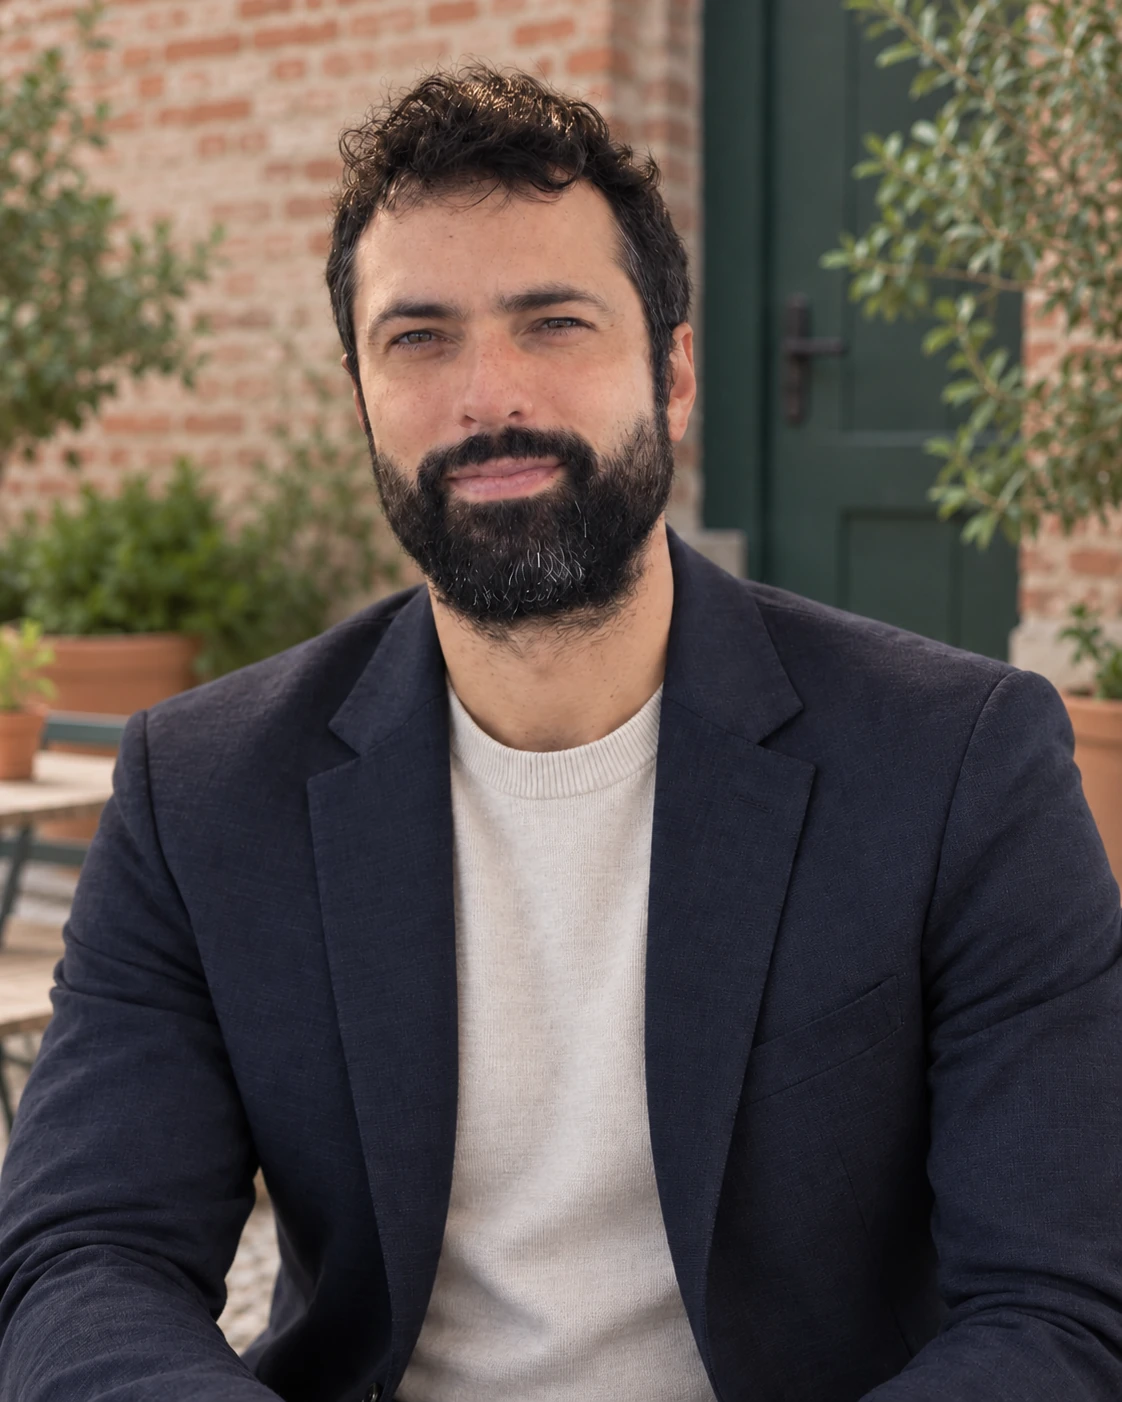
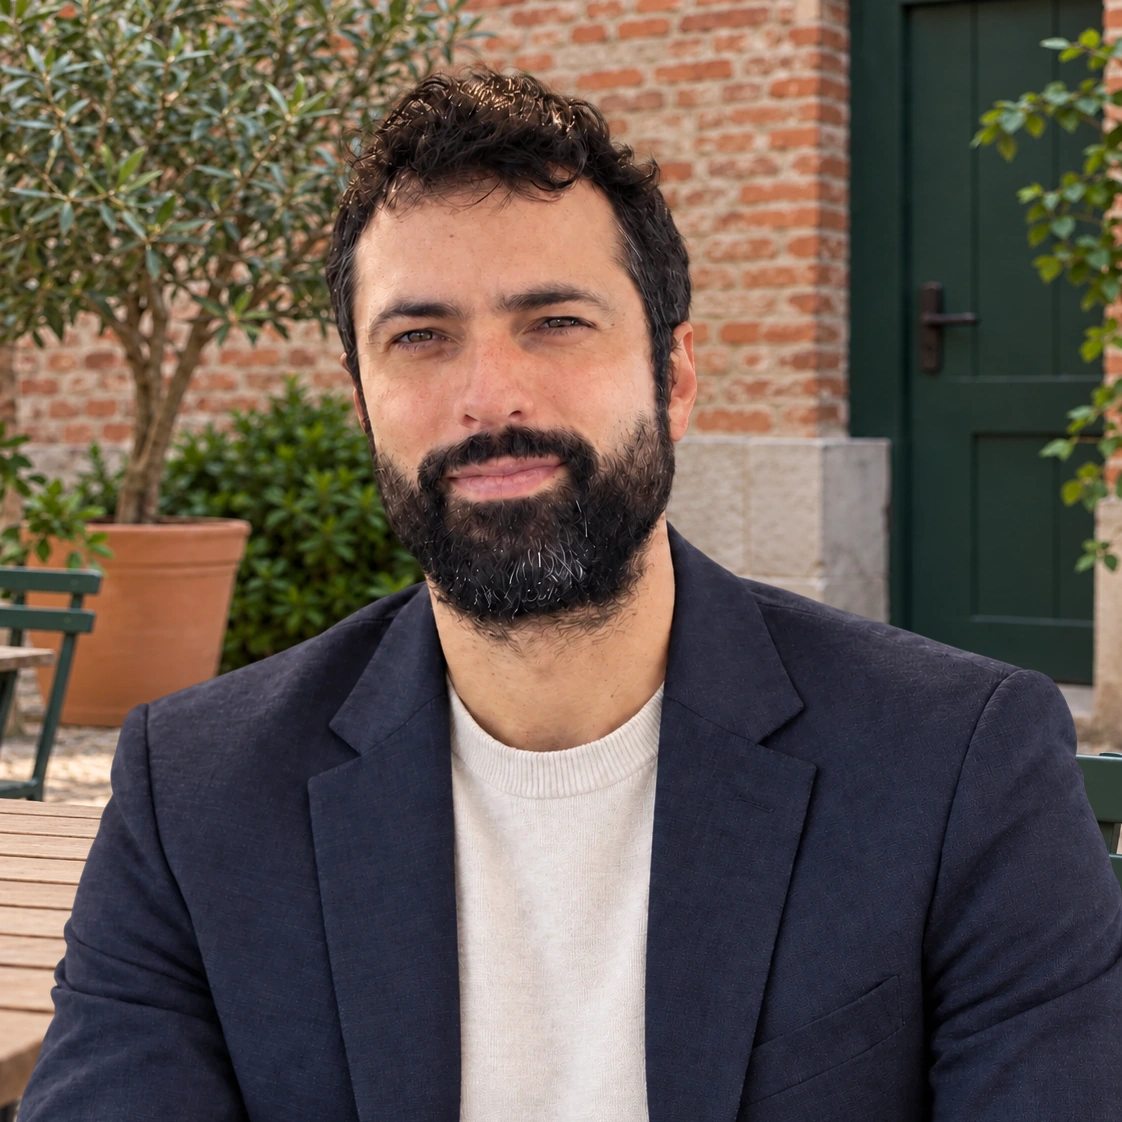
Bake courtyard backgrounds into team portraits

diff --git a/index.html b/index.html
@@ -37,7 +37,7 @@
       as="image"
       type="image/svg+xml"
     />
-    <link rel="stylesheet" href="/styles.css?v=20261027-team-names" />
+    <link rel="stylesheet" href="/styles.css?v=20261102-retratos-integrados" />
     <link rel="stylesheet" href="/story.css?v=20261027-captures" />
     <script defer src="/assets/vendor/gsap.min.js?v=20260914-feedback"></script>
     <script
@@ -965,8 +965,8 @@
               </button>
             </header>
             <div class="person-content" id="laura-pereda-details">
-              <figure class="person-photo person-photo--patio">
-                <img src="/assets/team/laura-pereda-cutout.webp?v=20261022-patio-comun" width="1122" height="1402" alt="Laura Pereda" loading="lazy" decoding="async" />
+              <figure class="person-photo">
+                <img src="/assets/team/laura-pereda-patio.webp?v=20261102-integrado" width="1122" height="1122" alt="Laura Pereda" loading="lazy" decoding="async" />
               </figure>
               <div class="person-body">
                 <p class="person-lead" data-es="Tu primer contacto con el equipo." data-en="Your first contact with the team.">Tu primer contacto con el equipo.</p>
@@ -984,8 +984,8 @@
               </button>
             </header>
             <div class="person-content" id="juan-poblete-details">
-              <figure class="person-photo person-photo--patio">
-                <img src="/assets/team/juan-cutout.webp?v=20261022-patio-comun" width="1122" height="1402" alt="Juan Poblete" loading="lazy" decoding="async" />
+              <figure class="person-photo">
+                <img src="/assets/team/juan-patio.webp?v=20261102-integrado" width="1122" height="1122" alt="Juan Poblete" loading="lazy" decoding="async" />
               </figure>
               <div class="person-body">
                 <p class="person-lead" data-es="Conecto negocio y tecnología." data-en="Connecting business and technology.">Conecto negocio y tecnología.</p>
@@ -1022,8 +1022,8 @@
               </button>
             </header>
             <div class="person-content" id="agustin-rosa-details">
-              <figure class="person-photo person-photo--patio">
-                <img src="/assets/team/agustin-rosa-cutout.webp?v=20261022-patio-comun" width="1122" height="1402" alt="Agustín Rosa" loading="lazy" decoding="async" />
+              <figure class="person-photo">
+                <img src="/assets/team/agustin-rosa-patio.webp?v=20261102-integrado" width="1122" height="1122" alt="Agustín Rosa" loading="lazy" decoding="async" />
               </figure>
               <div class="person-body">
                 <p class="person-lead" data-es="IA para tareas concretas." data-en="AI for practical tasks.">IA para tareas concretas.</p>

diff --git a/styles.css b/styles.css
@@ -2562,9 +2562,6 @@ h1 {
   border: 1px solid var(--line);
   margin: 0 auto;
 }
-.person-photo--patio {
-  background: url("/assets/team/patio-common.webp?v=20261022-patio-comun") 0 0 / 100% 100% no-repeat;
-}
 .person-photo img {
   width: 100%;
   height: auto;

diff --git a/docs/test-cases.md b/docs/test-cases.md
@@ -1,5 +1,25 @@
 # Landing narrative · 21 octubre 2026
 
+## Retratos con fondo integrado · 2 noviembre 2026
+
+Laura, Juan y Agustín usan ahora una imagen opaca por retrato (`*-patio.webp`).
+Se exporta la composición existente, conservando las personas y el encuadre circular;
+el fondo deja de cargarse como un recurso CSS independiente. Los recortes y el fondo
+original se conservan como fuentes. Los archivos finales son cuadrados de 1122 × 1122.
+
+- `TEAM-BG01`: las tres fichas usan imágenes completas; no hay dependencia del fondo CSS.
+- `TEAM-BG02`: navegador en ES/EN a 320, 390, 768 y 1440 px; imágenes cargadas,
+  opacas y sin solicitudes de recortes o fondo separado, incluso bloqueando esas rutas.
+- `TEAM-BG03`: comparación de las tres fotos antes/después a 390 y 1440 px para
+  conservar el encuadre; capturas inspeccionadas y diferencias de compresión registradas.
+- `TEAM-BG04`: el preparador de la preview conserva las imágenes y comprueba todos
+  los recursos CSS bajo el prefijo protegido, sin exigir el antiguo fondo independiente.
+
+Evidencia de ejecución en `artifacts/landing-team-backgrounds-20261102/` del workspace,
+fuera de la raíz pública. La validación se realiza en Chrome con tamaños simulados;
+no sustituye una prueba en dispositivos físicos. La publicación sigue el workflow
+existente de `main`; este repositorio no tiene entornos DEV/PRELIVE separados.
+
 ## Publicación principal · 27 octubre 2026
 
 Run ID local: `production-20261027`. Fuente pública idéntica al snapshot aprobado
